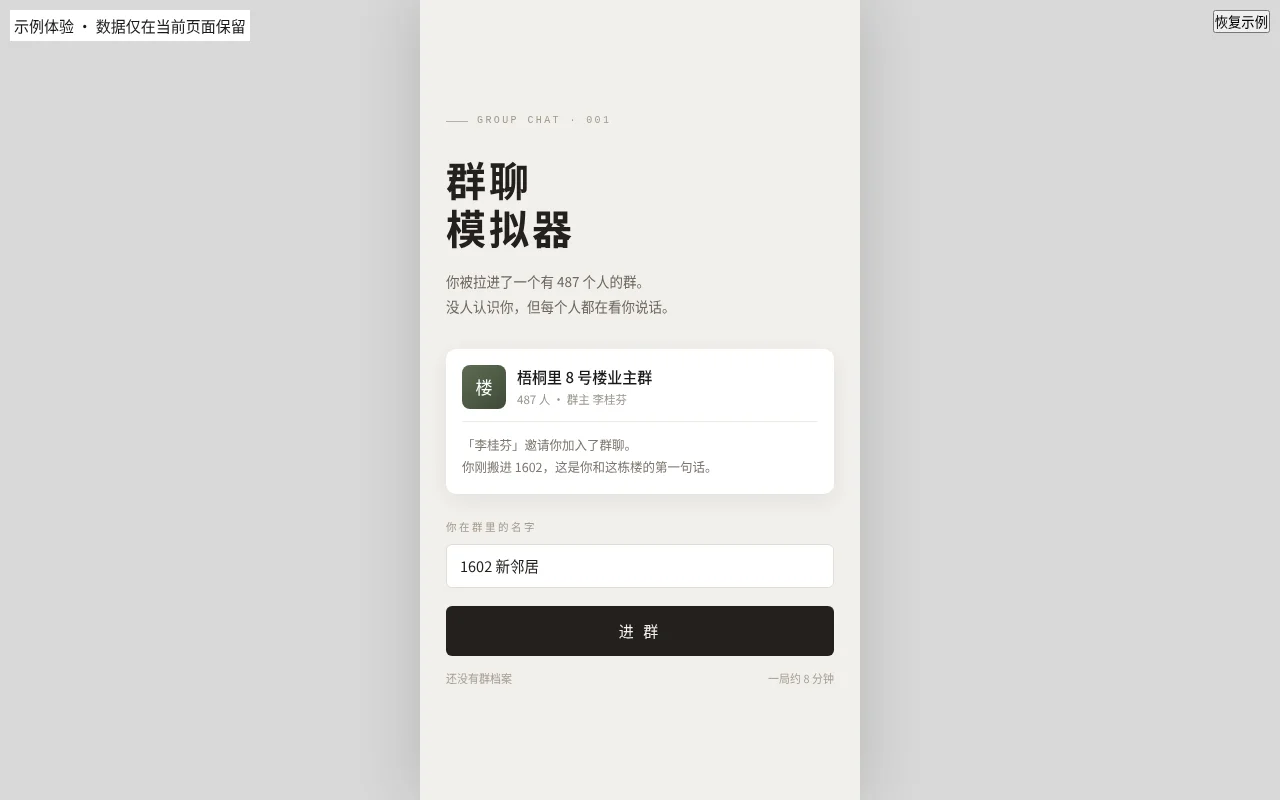
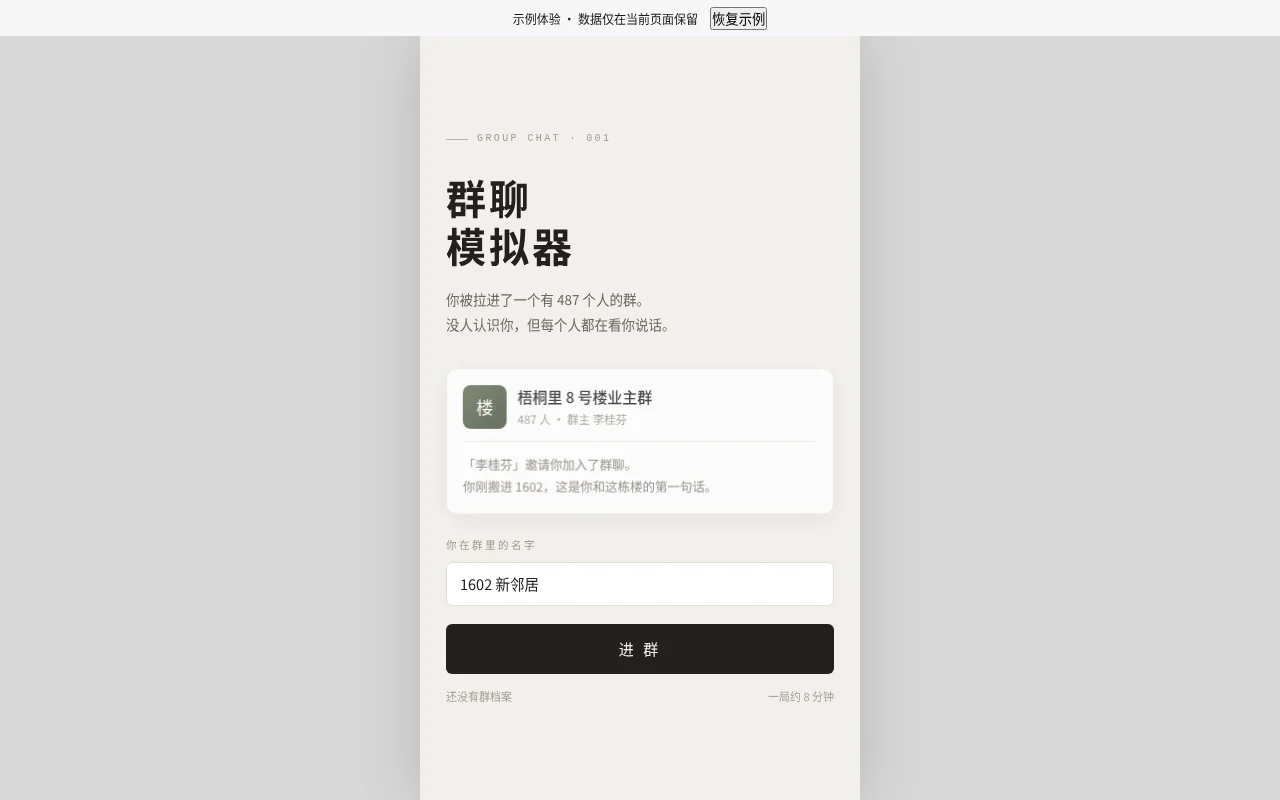
Add simulator hall template

diff --git a/ba829f6f3e8e605a7569a50b/showcase/preview.html b/ba829f6f3e8e605a7569a50b/showcase/preview.html
@@ -38,7 +38,8 @@
   #app {
     width: 100%;
     max-width: 440px;
-    height: 100vh;
+    height: calc(100vh - 36px);
+    margin-top: 36px;
     background: var(--bg);
     display: flex;
     flex-direction: column;
@@ -4196,7 +4197,16 @@ return {
   $('sheet').onclick = e => { if (e.target.id === 'sheet') $('sheet').classList.remove('on') }
   $('nav-back').onclick = () => {
     if (ended || !S) { resetToCover(); return }
-    if (confirm('退出会丢掉这一局，确定？')) resetToCover()
+    if (document.getElementById('exit-confirm')) return
+    const dialog = document.createElement('div')
+    dialog.id = 'exit-confirm'
+    dialog.setAttribute('role', 'dialog')
+    dialog.setAttribute('aria-label', '退出当前游戏')
+    dialog.style.cssText = 'position:fixed;inset:0;z-index:9000;background:#0008;display:grid;place-items:center'
+    dialog.innerHTML = '<div style="background:#fff;padding:24px;border-radius:12px"><p>退出会丢掉这一局，确定？</p><button type="button" id="exit-cancel">继续游戏</button> <button type="button" id="exit-accept">退出</button></div>'
+    document.body.append(dialog)
+    $('exit-cancel').onclick = () => dialog.remove()
+    $('exit-accept').onclick = () => { generation++; dialog.remove(); resetToCover() }
   }
 
   // 每局结束后写入档案（只在结算时调用一次）
@@ -4209,11 +4219,11 @@ return {
     previewStorage.setItem('gc_hist', JSON.stringify(hist.slice(0, 30)))
   }
 
-  window.resetExample = () => { generation++; previewStorage.data = {}; document.getElementById('end')?.remove(); document.getElementById('sheet').classList.remove('on'); resetToCover() }
+  window.resetExample = () => { generation++; previewStorage.data = {}; document.getElementById('end')?.remove(); document.getElementById('exit-confirm')?.remove(); document.getElementById('sheet').classList.remove('on'); resetToCover() }
   resetToCover()
 })()
 </script>
-<span style="position:fixed;top:10px;left:10px;z-index:10000;background:#fff;padding:4px">示例体验 · 数据仅在当前页面保留</span><button type="button" id="restore-example" onclick="window.resetExample()" style="position:fixed;top:10px;right:10px;z-index:10000">恢复示例</button>
+<div style="position:fixed;top:0;left:0;right:0;height:36px;z-index:10000;background:#f7f7f7;display:flex;align-items:center;justify-content:center;gap:12px;font:12px sans-serif"><span>示例体验 · 数据仅在当前页面保留</span><button type="button" id="restore-example" onclick="window.resetExample()">恢复示例</button></div>
 <!-- portal-back:start -->
 
 <style>
